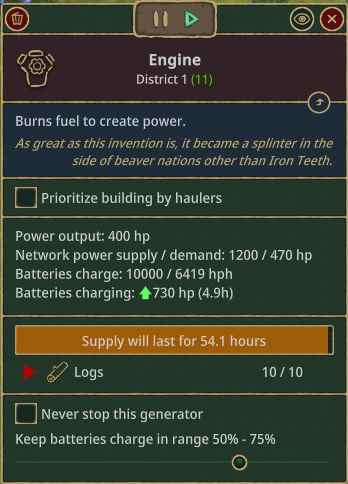
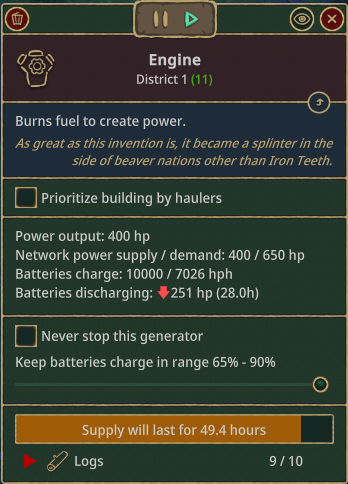
Move UI fragment to the middle

diff --git a/SmartPower/UI/Configurator.cs b/SmartPower/UI/Configurator.cs
@@ -27,15 +27,15 @@ sealed class Configurator : IConfigurator {
   }
 
   sealed class EntityPanelModuleProvider : IProvider<EntityPanelModule> {
-    readonly SmartGoodPoweredGeneratorFragment _automationFragment;
+    readonly SmartGoodPoweredGeneratorFragment _goodPoweredGeneratorFragment;
 
-    public EntityPanelModuleProvider(SmartGoodPoweredGeneratorFragment automationFragment) {
-      _automationFragment = automationFragment;
+    public EntityPanelModuleProvider(SmartGoodPoweredGeneratorFragment goodPoweredGeneratorFragment) {
+      _goodPoweredGeneratorFragment = goodPoweredGeneratorFragment;
     }
 
     public EntityPanelModule Get() {
       var builder = new EntityPanelModule.Builder();
-      builder.AddBottomFragment(_automationFragment);
+      builder.AddMiddleFragment(_goodPoweredGeneratorFragment);
       return builder.Build();
     }
   }

diff --git a/SmartPower/CHANGELOG.md b/SmartPower/CHANGELOG.md
@@ -1,4 +1,5 @@
 # v1.9.0 (started on 8/8/2024)
+* Move power generator UI fragment to the middle of the panel.
 
 # v1.8.0 (8 Aug 2024)
 * Migrate to Update 6 mods model. Incompatible with the previous versions of Timberborn!
